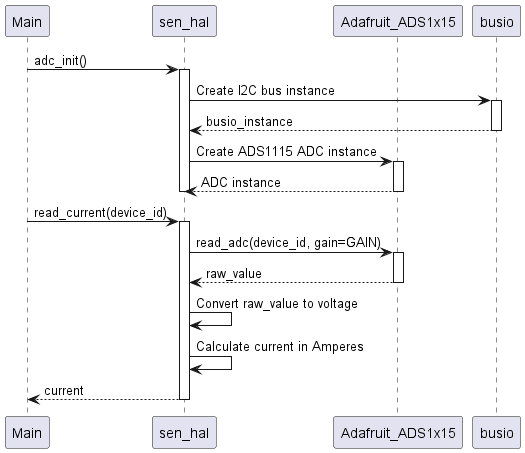
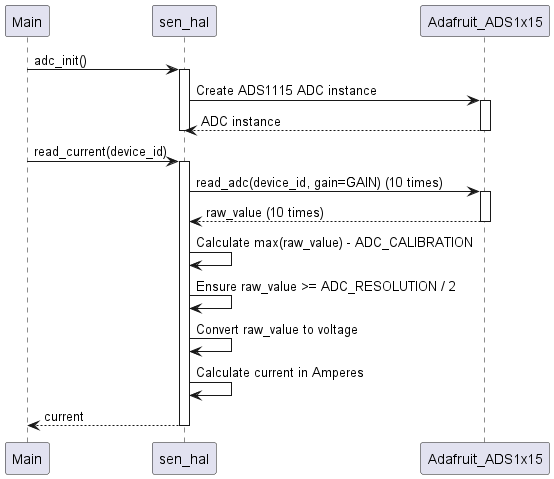
uml updates.

diff --git a/sen_hal.py b/sen_hal.py
@@ -25,8 +25,6 @@ def adc_init():
   global log 
   log = get_logger()
   # Create an ADS1115 ADC instance
-  # Create the I2C bus
-  #bus = busio.I2C(board.SCL, board.SDA)
   adc = Adafruit_ADS1x15.ADS1115(address=0x48, busnum=1)
   log_message(log, "ADC initialized successfully.", level=logging.INFO)
 
@@ -53,20 +51,4 @@ def read_current(device_id):
     current = None
   return current
 
-'''
-def read_current(device_id):
-  return random.uniform(0, 5)  # Simulate current reading for testing
 
-
-while True:
-  log = setup_logger("smart_home", "./smart_home.log", level=logging.DEBUG)
-  # Initialize the ADC
-  adc_init()
-  
-  # Read current from the first channel (0)
-  current = read_current(0)
-  
-  # Wait for a second before the next reading
-  time.sleep(1)
-
-'''
